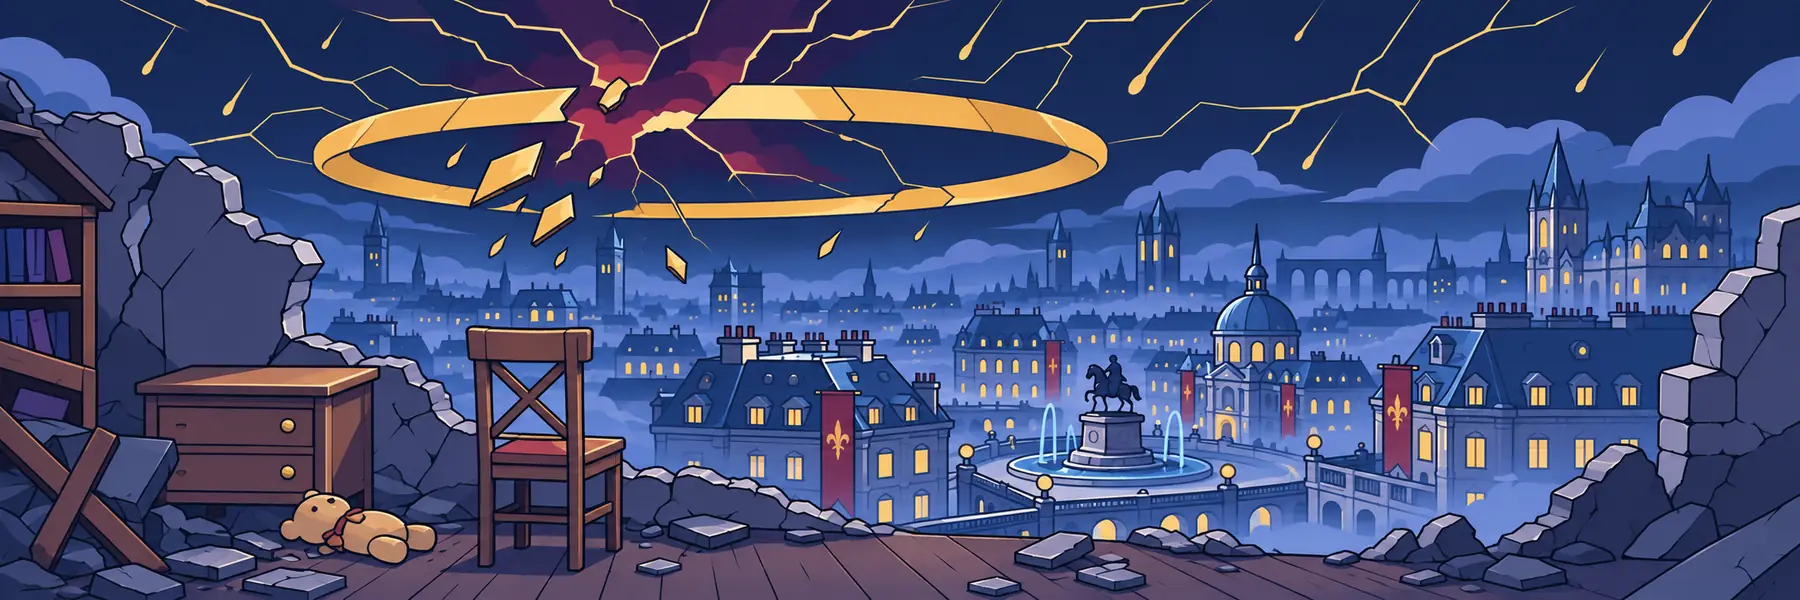
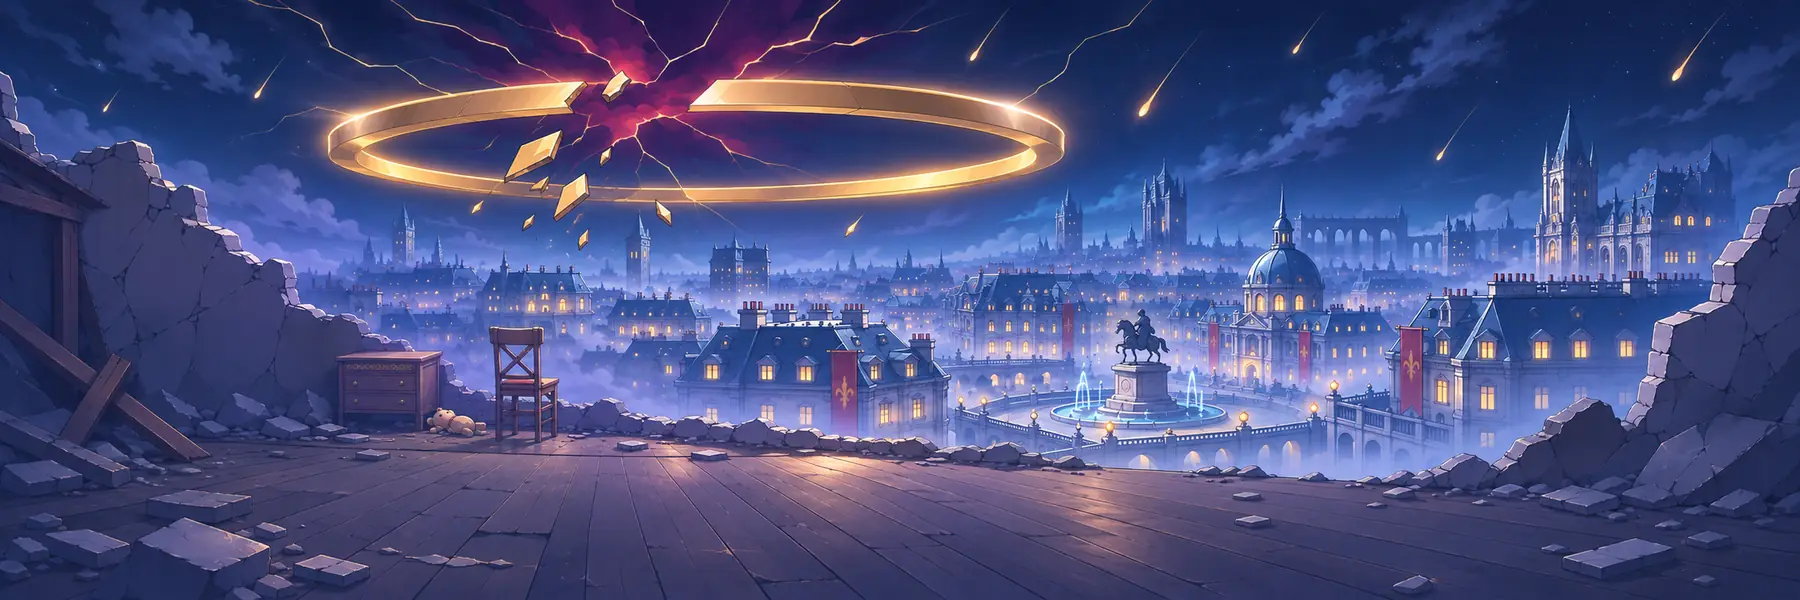
fix(art): 강제 탐색 배경 — 등신대 그웬 결로, 의자 안쪽·작게(원근)

diff --git a/forced.css b/forced.css
@@ -9,7 +9,7 @@
 body.is-forced{--r-panel:0;--r-box:0;--r-ctl:0;--brass:var(--fx-red);--line:#4a2a48}
 
 /* 1. 그웬 길 → 폐허 장면. SD 그웬은 숨기고(걷기 정지는 gwen_lane.js), 뒷모습 그웬이 그 한 명(그웬은 화면에 한 곳 — docs/gwen_stage.md). 환경만 움직임 */
-.gwen-lane[data-alert]{transition:height .35s ease;--fx-h:240px;--fx-ar:3;--fx-x:38%;--fx-gx:66%;--fx-gs:.84}
+.gwen-lane[data-alert]{transition:height .35s ease;--fx-h:240px;--fx-ar:3;--fx-x:38%;--fx-gx:66%;--fx-gs:.92}
 .is-forced :is(#reco-board-lane,#direct-board-lane)[data-alert=scan]{height:var(--fx-h);background:var(--fx-ink)}
 .gwen-lane[data-alert=scan] :is(.gwen-lane-actor,.gwen-stage-banner){clip-path:inset(50%)}
 .fx-scene{position:absolute;z-index:3;left:var(--fx-x);top:58%;width:max(100%,calc(var(--fx-h)*var(--fx-ar)));aspect-ratio:var(--fx-ar);translate:calc(var(--fx-x)*-1) -58%;overflow:hidden;pointer-events:none;background:var(--fx-ink)}
@@ -44,8 +44,8 @@ body.is-forced{--r-panel:0;--r-box:0;--r-ctl:0;--brass:var(--fx-red);--line:#4a2
 .gwen-lane[data-alert=found] .fx-scene{animation:fx-purify 1.3s ease-out forwards}
 .gwen-lane[data-alert=found]::after{content:"";position:absolute;z-index:4;inset:0 auto 0 -40%;width:40%;pointer-events:none;background:linear-gradient(100deg,transparent,rgba(255,236,170,.5) 45%,rgba(255,255,255,.75) 50%,rgba(255,236,170,.5) 55%,transparent);animation:fx-sweep 1.1s ease-out forwards}
 @media(min-width:1200px){.gwen-lane[data-alert]{--fx-h:300px}}
-@media(max-width:760px){.gwen-lane[data-alert]{--fx-h:190px;--fx-ar:1.44;--fx-x:50%;--fx-gx:82%;--fx-gbottom:calc(88% - var(--fx-h)*.88 - 6px)}
- /* 낮은 띠에서도 고리·파손부가 보이게 하늘 쪽으로 맞춤. 그웬은 띠 아래 6px 위치를 유지함 */
+@media(max-width:760px){.gwen-lane[data-alert]{--fx-h:max(190px,55vw);--fx-ar:1.44;--fx-x:50%;--fx-gx:82%;--fx-gbottom:calc(88% - var(--fx-h)*.88 - 6px)}
+ /* 하늘 기준점 12%를 유지하고 띠 높이를 늘려 안쪽 의자 다리까지 보존함. 그웬은 띠 아래 6px 위치를 유지함 */
  .fx-scene{top:12%;translate:calc(var(--fx-x)*-1) -12%}
  [data-forced-art] .fx-scene .fx-bg{background-image:url(assets/forced/scene_narrow.webp)}
  [data-forced-art] .fx-scene .fx-glow{background:radial-gradient(ellipse 25% 15% at 32.3% 20%,rgba(255,214,140,.34),transparent 70%),radial-gradient(ellipse 41.7% 3% at 61% 34%,rgba(111,240,220,.4),transparent 75%)}}

diff --git a/docs/forced_art.md b/docs/forced_art.md
@@ -28,10 +28,12 @@ python -X utf8 tools/build_forced_art.py --gen-dir <원본 그림 폴더>
 ## 그림 바꿔 끼우기
 
 - **배경**: 새 그림을 같은 이름으로 두고 위 명령을 다시 돌림. 가로세로 비율이 3:1 이 아니면 `forced.css` 의 `--fx-ar`(넓은 화면 3, 좁은 화면 1.44)도 맞춤. 좁은 화면용 자르는 구간은 `tools/build_forced_art.py` 의 `NARROW` 임.
-- **뒷모습 그웬**: 새 투명 그림(전신)을 같은 이름으로 두고 같은 명령을 돌림. 알파 10 미만은 0, 245 초과는 255로 정리하고 중간 가장자리 투명도는 보존함(승인 그웬 빌더와 같은 기준). 위에서 얼마나 남길지는 도구의 `BACK_KEEP`(지금 0.62 = 머리~허벅지 중간)임. 도구가 찍어 주는 가로÷세로 값에 맞춰 `forced.css` `.fx-gwen` 의 `aspect-ratio`를 출력 파일의 실제 크기(지금 271/520)로 맞춤. 크기는 `--fx-gs`(띠 높이 대비, 지금 0.84), 가로 자리는 `--fx-gx`(인물 가운데, 넓은 화면 66%·좁은 화면 82%)임.
+- **뒷모습 그웬**: 새 투명 그림(전신)을 같은 이름으로 두고 같은 명령을 돌림. 알파 10 미만은 0, 245 초과는 255로 정리하고 중간 가장자리 투명도는 보존함(승인 그웬 빌더와 같은 기준). 위에서 얼마나 남길지는 도구의 `BACK_KEEP`(지금 0.62 = 머리~허벅지 중간)임. 도구가 찍어 주는 가로÷세로 값에 맞춰 `forced.css` `.fx-gwen` 의 `aspect-ratio`를 출력 파일의 실제 크기(지금 271/520)로 맞춤. 크기는 `--fx-gs`(띠 높이 대비, 지금 0.92), 가로 자리는 `--fx-gx`(인물 가운데, 넓은 화면 66%·좁은 화면 82%)임.
 - 움직이는 층(안개 2겹·재·불씨·고리 빛·주기 노이즈)은 그림이 아니라 `forced.css` 의 CSS 임.
 
 ## 출처
+
+아래는 이전 판의 생성 이력임. 현재 자산의 화풍·좌표·크기·용량은 아래 «현재 강제 탐색 배경» 절이 정본임.
 
 - codex 내장 image_gen 으로 만든 정식 그림(2026-11-23)임. 원본 PNG 는 저장소 밖에 보관함. «정식»은 사이트 채택본이라는 뜻이며 게임사의 공식 원화가 아닌 생성 팬 그림임. 원 캐릭터·디자인의 권리는 원 권리자에게 있음.
 - 배경은 `5e05a3f`의 채택 원본 `lavistar_ruin_bg_1.png`를 직접 참조해 하늘 위주로 편집했음. 행성·비스듬한 궤적을 없애고, 균열·금빛 파편·붉은 보라색 공허가 드러나는 방패 고리와 유리처럼 갈라지는 하늘을 넣었음. 폐허 실내·의자·작은 책상·곰인형·유럽풍 도시·기마상 광장 구도를 유지했음. 뒷모습 그웬은 승인 등신대 `tools/gwen_art/masters5/st_point.webp`의 외형·화풍과 공식 카드 `assets/savior/gwen_art.webp`의 의상을 기준으로 했으며 임시본은 자세만 참조했음. 신분증은 `506b228^`의 옛 임시 사진을 직접 참조해 베레모·셔츠·넥타이·재킷을 갖춘 과거 모습으로 맞췄으며, 승인 등신대는 얼굴·화풍에만 참조했음.
@@ -40,16 +42,16 @@ python -X utf8 tools/build_forced_art.py --gen-dir <원본 그림 폴더>
 - PM 검수 수정(2026-11-23): 내장 image_gen 국소 편집으로 왼쪽 귀걸이를 지웠고, 옛 신분증을 직접 참조해 과거 복장·낡은 흑백 사진 질감을 복원했음. 이전 원본은 `*_v1.png`로 보관하고 `compare.png`·`layout_review.png`를 다시 만들었음.
 - 하늘 재검수(2026-11-23): 이전 배경 원본은 `lavistar_ruin_bg_v1.png`로 보관했음. 고리 범위는 원본 기준 대략 가로 18~62%·세로 5~32%, 중심 40%·19%이며, 큰 파손부는 가로 28~41%·세로 0~19%임. `forced.css`의 빛 두 겹은 위치·크기만 고리 파손부와 아래쪽 테두리로 옮겼음(색·불투명도·움직임 주기 유지). `compare.png`·`layout_review.png`는 왼쪽 `5e05a3f` / 오른쪽 새 그림으로 갱신했음. 정지 배치 검수는 1200·600·360px이며, 기존 600×190 배치의 세로 크롭에서는 고리 대부분이 잘림. 배경 비율·장면 위치를 유지하라는 범위에 따라 크롭은 바꾸지 않았음. 검수 시트는 움직임·빛·안개를 제외한 배치 확인용임.
 
-## 현재 강제 탐색 배경 — 그웬 셀 화풍
+## 현재 강제 탐색 배경 — 등신대 그웬 결·원근
 
-- 내장 image_gen 1회·재시도 0회로 교체했음. 재조사 사무실 `recon_office_bg_1.png`를 화풍·고리 모양 기준으로, 기존 SD `investigate_512.png`·`files_512.png`를 선·색·명암 기준으로 직접 참조했음. 이전 강제 탐색은 구도·내용만 참조했음. 외곽선·2~3단 셀 명암, 단순한 금빛 띠와 파손부를 채택했음. 위 출처의 이전 좌표·용량은 과거 기록임.
-- 원본 `lavistar_ruin_bg_1.png`는 **2172×724**, 1,960,111바이트로 생성 결과 그대로임. 이전 원본은 `lavistar_ruin_bg_v2.png`로 보관했음. 빌더는 배경을 확대하지 않고 줄이기만 함. 배포 `scene.webp` 1800×600·107,808바이트, `scene_narrow.webp` 800×555·54,332바이트, 기존 인물·신분증 포함 4파일 합계 198,808바이트임.
-- 고리 띠는 원본 기준 가로 약 **17.4~61.6%·세로 14~37%**, 파손부 중심 약 (33%, 22%), 낙하 파편은 세로 약 47%까지임(육안 추정). 사무실 창밖의 단순한 금빛 고리와 같은 모양·색을 썼고, 붉은 보라 공허·유리 균열·쏟아지는 별을 넣었음. 행성·문자 없음.
-- 가로 17~65% 크롭은 유지했음. 폭 760px 이하에서 `.fx-scene`의 세로 기준점을 58%에서 **12%**로 옮겨 하늘을 보존했음. 뒷모습 그웬은 이에 맞춰 계산하므로 띠 아래 6px·인물 크기·가로 위치가 유지됨. 600×190에서 원본 세로 약 9.2~52.2%, 360×190에서 5.5~77.2%가 보임. 고리와 파편은 보이고, 낮은 600px 띠에서는 실내 바닥·의자 아래·분수가 잘리는 절충임. 800×555 자산에는 의자·곰인형·광장이 남아 있음.
-- 고리 빛 두 겹은 배경의 3% 여백 확장을 반영해 넓은 화면 (32%, 20%)·(46%, 34%), 좁은 화면 (32.3%, 20%)·(61%, 34%)로 맞췄음. 색·불투명도·주기는 유지했음.
-- 보관 폴더의 `compare.png`(afa56b7/새 그림), `layout_review.png`(1200×300·600×190·360×190, 뒷모습 합성)를 갱신하고 직접 검수했음. CSS와 같은 좌표로 만든 정지 합성 검수이며 브라우저 동작·빛·안개는 포함하지 않음. 생성 프롬프트는 [forced_art_prompts.json](../tools/forced_art_prompts.json)에 있음.
-
-- 검증: `node tests/forced_test.js`, `python -X utf8 -I tools/run_tests.py forced gwen` 16통과·0실패. 원본과 생성 출력의 바이트 일치, 이전 원본 보존, 크기·알파·JSON 절대 경로 부재를 확인했음. 독립 리뷰에서 인물 하단 고정과 축소 계산을 확인했음. 배경의 3% 확장으로 좁은 화면 고리 왼쪽 극단 일부는 잘리지만 파손부·고리 형태는 보존됨.
+- 내장 image_gen **1회·재시도 0회**로 교체했음. 최우선 화풍 기준은 `gwen_back_illust_1.png`의 등신대 뒷모습임. `5e05a3f` 배경은 구도·대기감, `12d9262` 배경은 구도·고리 위치, 재조사 사무실은 고리 모양만 참조했음. 섬세한 선·3~4단 명암·그라데이션 하늘·발광을 사용해 이전 사실풍과 납작한 SD 배경의 중간으로 맞췄음.
+- 원본 `lavistar_ruin_bg_1.png`는 **2172×724**, 생성 결과를 크기 변경 없이 보관했음. 직전 원본은 `lavistar_ruin_bg_v3.png`로 보존했음. 배포 `scene.webp`는 1800×600·98,902바이트, `scene_narrow.webp`는 800×555·49,982바이트, 기존 인물·신분증 포함 합계 185,552바이트임. 생성 출력과 보관 원본의 SHA-256을 대조했음.
+- 의자·작은 책상·곰인형을 중경으로 보내고 앞쪽에는 넓은 바닥과 벽 가장자리·잔해만 남겼음. 의자는 원본 가로 약 **27.3~31.1%**, 세로 54.7~74.3%(높이 **19.6%**)임. 가로 17~65% 크롭 안에 다리까지 들어감. 오른쪽 1/3은 앞에 설 그웬 자리로 비웠음. 좌표는 원본 픽셀 육안 추정임.
+- 금빛 고리는 원본 가로 약 **18.2~59.2%·세로 13.3~33.7%**로 요청 범위 근처에 유지했음. 금속 테두리의 두께·그늘·빛 번짐, 파손부·금빛 파편·붉은 보라 공허·갈라진 하늘·쏟아지는 별을 넣었음. 사무실의 수평 타원 고리 모티프를 유지했음.
+- 좁은 자산의 **가로 17~65% 크롭·세로 기준점 12%**는 유지했음. 기존 600×190 띠는 원본 세로 약 9~52%만 보여 중경 의자가 사라지므로, 폭 760px 이하의 띠 높이를 `max(190px,55vw)`로 늘렸음. 600px 뷰포트는 330px, 360px는 198px 높이이며 세로 약 5.2~79.9%가 보여 의자 전체·고리를 함께 보존함(띠 폭=뷰포트 폭인 검수 조건). 그웬은 `--fx-gs:.92`, 띠 아래 6px, 가로 66%/82%를 사용함. 보이는 머리~허벅지는 띠 높이의 약 89~90%임.
+- `layout_review.png`를 12d9262/새 그림 비교로 다시 만들었음. 넓은 1200×300·좁은 600×330·휴대폰 360×198에 뒷모습을 합성해 직접 검수했음. 의자 높이는 띠 대비 각각 **27.7%·26.3%·26.3%**, 보이는 그웬 머리~허벅지 대비 **30.8%·29.1%·29.5%**임. CSS 좌표 정지 합성으로 움직임·빛·안개는 제외했음. 넓은 화면은 기존 세로 기준점 58%여서 고리 맨 위 일부가 잘리는 기존 절충을 유지함.
+- 생성 프롬프트·참조·크기는 [forced_art_prompts.json](../tools/forced_art_prompts.json)이 정본임. 원본·검수 시트·측정 JSON은 저장소 밖 원본 보관 폴더에 둠.
+- 검증: 아트 빌드·페이지 빌드, `node tests/forced_test.js`(변이 7건 포함), `python -X utf8 -I tools/run_tests.py forced gwen` **16통과·0실패**. 전체 회귀는 **273통과·0실패**, 비공개 표 등 환경 자료가 필요한 검사 6건은 건너뛰었음. 독립 리뷰에서 수정 필수 지적 없었음. 위 의자 비율은 명시한 세 검수 크기 기준이며 다른 폭에서는 띠 크기에 따라 달라짐.
 
 ## 재조사 배경(준비 중)
 

diff --git a/HANDOFF.md b/HANDOFF.md
@@ -8,7 +8,7 @@
 
 - **재조사 배경 준비**: PM 검수에 따라 그웬 SD 화풍의 셀 선화로 바꾸고 장식·광택을 줄였음. 단일 스탠드 광원·회수 증거 4자료·사진을 떼어 낸 흔적 4곳을 넣었음. 원본은 2172×724 그대로 보관했고 비교·그웬 합성을 검수했음. 현재 좌표·크롭 한계는 `docs/forced_art.md`, 호출 기록은 `tools/recon_art_prompts.json`이 정본임. 원본·미리보기는 `recon` 보관 폴더에 있으며 배포용 자산·화면 연결은 미구현임.
 
-- **강제 탐색 배경**: 재조사 사무실·그웬 SD와 같은 셀 화풍으로 맞췄음. 깨지는 금빛 방패 고리·공허·갈라진 하늘을 유지하고 좁은 화면 세로 기준점을 12%로 옮겨 고리를 보존했음. 인물의 띠 아래 위치는 유지했음. 출처·배치 검수의 절충·용량은 `docs/forced_art.md`, 생성 프롬프트는 `tools/forced_art_prompts.json`이 정본임.
+- **강제 탐색 배경**: 등신대 뒷모습 그웬을 화풍 기준으로 삼아 섬세한 셀 선화·명암·발광으로 맞췄음. 의자·책상·곰인형은 중경으로 줄였음. 좁은 화면의 가로 크롭·하늘 기준점을 유지하면서 띠 높이를 늘려 의자 전체와 고리를 보존했음. 현재 크기·좌표·검수 한계는 `docs/forced_art.md`, 생성 기록은 `tools/forced_art_prompts.json`이 정본임.
 
 - **공략 사례 기준 탐색 검사(단계 ②)**: 표준 육성·전체 보유로 화면 탐색 정책(코스모 3보스·길드 찾기, 작전·회랑은 근사 후보)과 사례 편성을 같은 400판으로 재평가했음. «탐색이 놓침» 0건, 엔진 의심 0건임. 다만 표준 육성은 사례 단계에서 2~5턴 안에 전멸해 장기 운영 전술이 돌아가는 구간의 판정은 미확인이고, 작전·회랑 사례는 진행도 1% 미만이라 비교 불가였음. 강한 가정 육성으로 재검사하는 것이 다음 후보임. 정책·기본값 불변. 사례별 표·한계는 `docs/casebook_search_check.md`, 도구는 `tools/casebook_search_check.py`.
 

diff --git a/docs/HISTORY.md b/docs/HISTORY.md
@@ -1,3 +1,9 @@
+## 2026-11-23 — 강제 탐색 배경: 등신대 그웬 결·중경 원근
+
+- SD 배경 기준을 등신대 뒷모습 그웬으로 바꿔 내장 image_gen 1회로 다시 만들었음. 선·명암·그라데이션 하늘·고리 발광을 맞추고 의자·책상·곰인형을 작게, 안쪽으로 보냈음. 직전 원본은 `lavistar_ruin_bg_v3.png`로 보존했음.
+- 좁은 크롭 17~65%·하늘 기준점 12%를 유지하고 띠 높이를 늘려 의자 다리가 잘리지 않게 했음. 그웬은 `--fx-gs:.92`, 띠 아래 6px로 보이는 높이 약 90%를 맞췄음. 넓은·좁은·휴대폰 합성 검수와 좌표·원본 출처는 `docs/forced_art.md`에 기록했음.
+- 아트·페이지 빌드와 강제 탐색·그웬 시험 16개, 전체 회귀 273개가 통과했음(환경 자료가 필요한 검사 6건 건너뜀). 독립 리뷰에서 수정 필수 지적 없었음.
+
 ## 2026-11-23 — 재조사용 SD 그웬 코트 벗은 차림 3종
 
 기존 SD investigate·files·report·ready를 직접 참조해 흰 블라우스·걷어 올린 소매·청록 리본 차림의 재조사 그웬을 만들었음. 돋보기 관찰 2회(시선 보정 1회), 사진 꽂기·팔짱 자세 각 1회로 내장 image_gen 총 4회를 호출했음. 실제 1254×1254 RGBA 원본을 확대 없이 보관했음.
